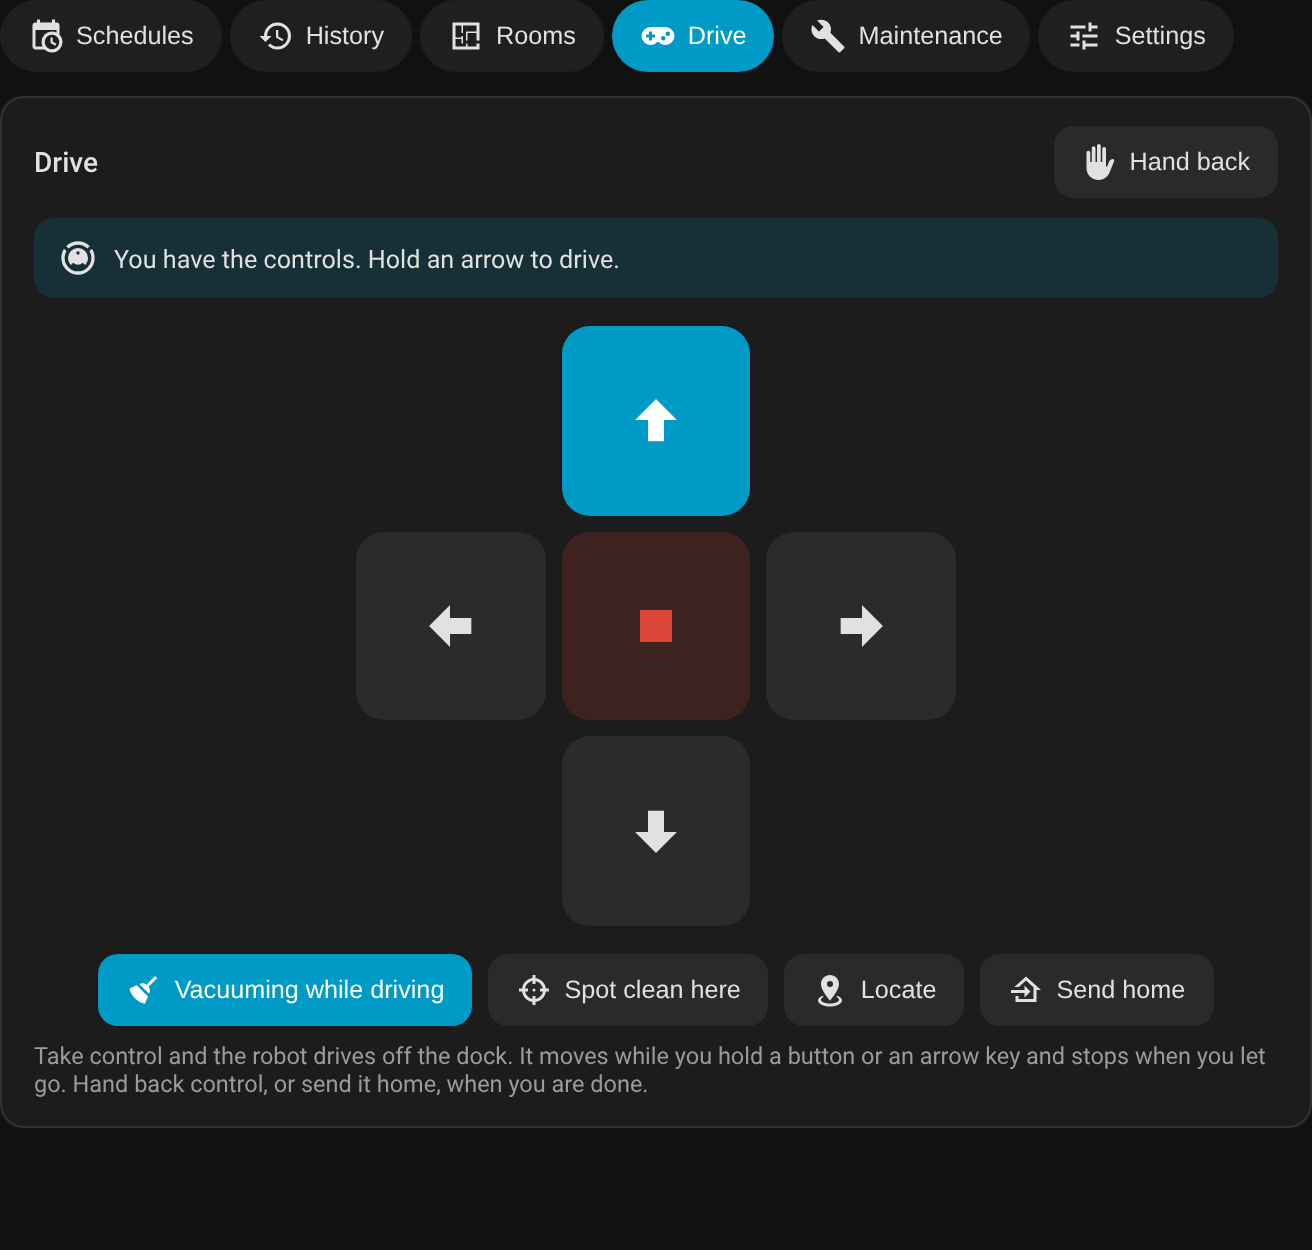
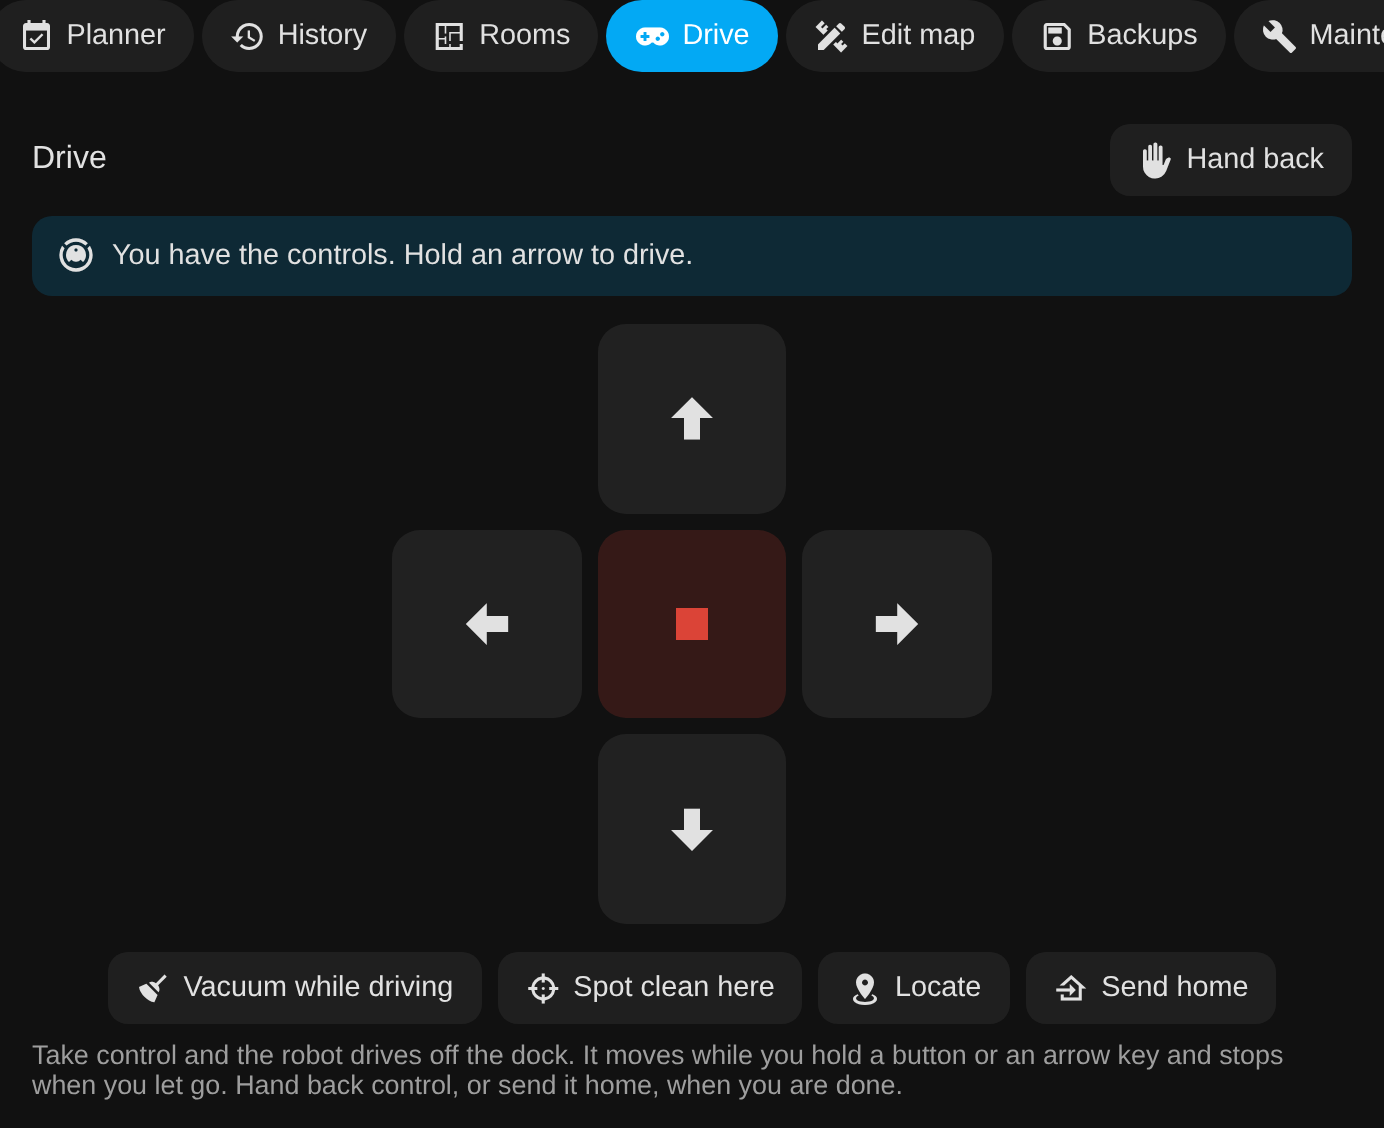
Docs: new screenshots of the sidebar page
Regenerated from the made-up-house mock with the current panel: all nine tabs,
real icons, History with a run's map, and Drive; new pictures of the Maps list in
Settings, the Edit map tab and restoring a backup as a new map.

diff --git a/docs/panel.md b/docs/panel.md
@@ -84,6 +84,8 @@ it. The robot must be docked and idle to save. Carpets and room names are drawn 
 are view-only for now. Behind the scenes this is the robot's own editing API (`setAreaInfo` /
 `setFurnitureInfo`), the same one the Tapo app uses.
 
+![The Edit map tab](panel-edit.png){ width="760" }
+
 ### Backups
 
 Every map backup Home Assistant holds, as a grid of thumbnails. Tap one to see it full size, or
@@ -93,6 +95,8 @@ your latest TP-Link backups into `config/tapo_rv30/map_backups/<robot>` without 
 backup is pictured from the robot's own snapshot or the saved map drawn like the live map, and
 its `.bkmap` is decoded to show the explored floor area, dock and room count. See
 [map backup and recovery](map-recovery.md) for the detail.
+
+![The Backups tab, restoring as a new map](panel-backups.png){ width="760" }
 
 ### Maintenance
 
@@ -114,6 +118,8 @@ button deletes a map that is not the current one, after a second press in the ro
 button previews a map full size. The padlock locks or unlocks a map, as in the Tapo app: a
 locked map is kept as it is instead of being updated by later cleans (its room names, no-go zones
 and furniture can still be edited). Copy and restore show a progress bar while they run.
+
+![Maps in the Settings tab](panel-maps.png){ width="760" }
 
 With more than one robot, each gets a tab in the header.
 
